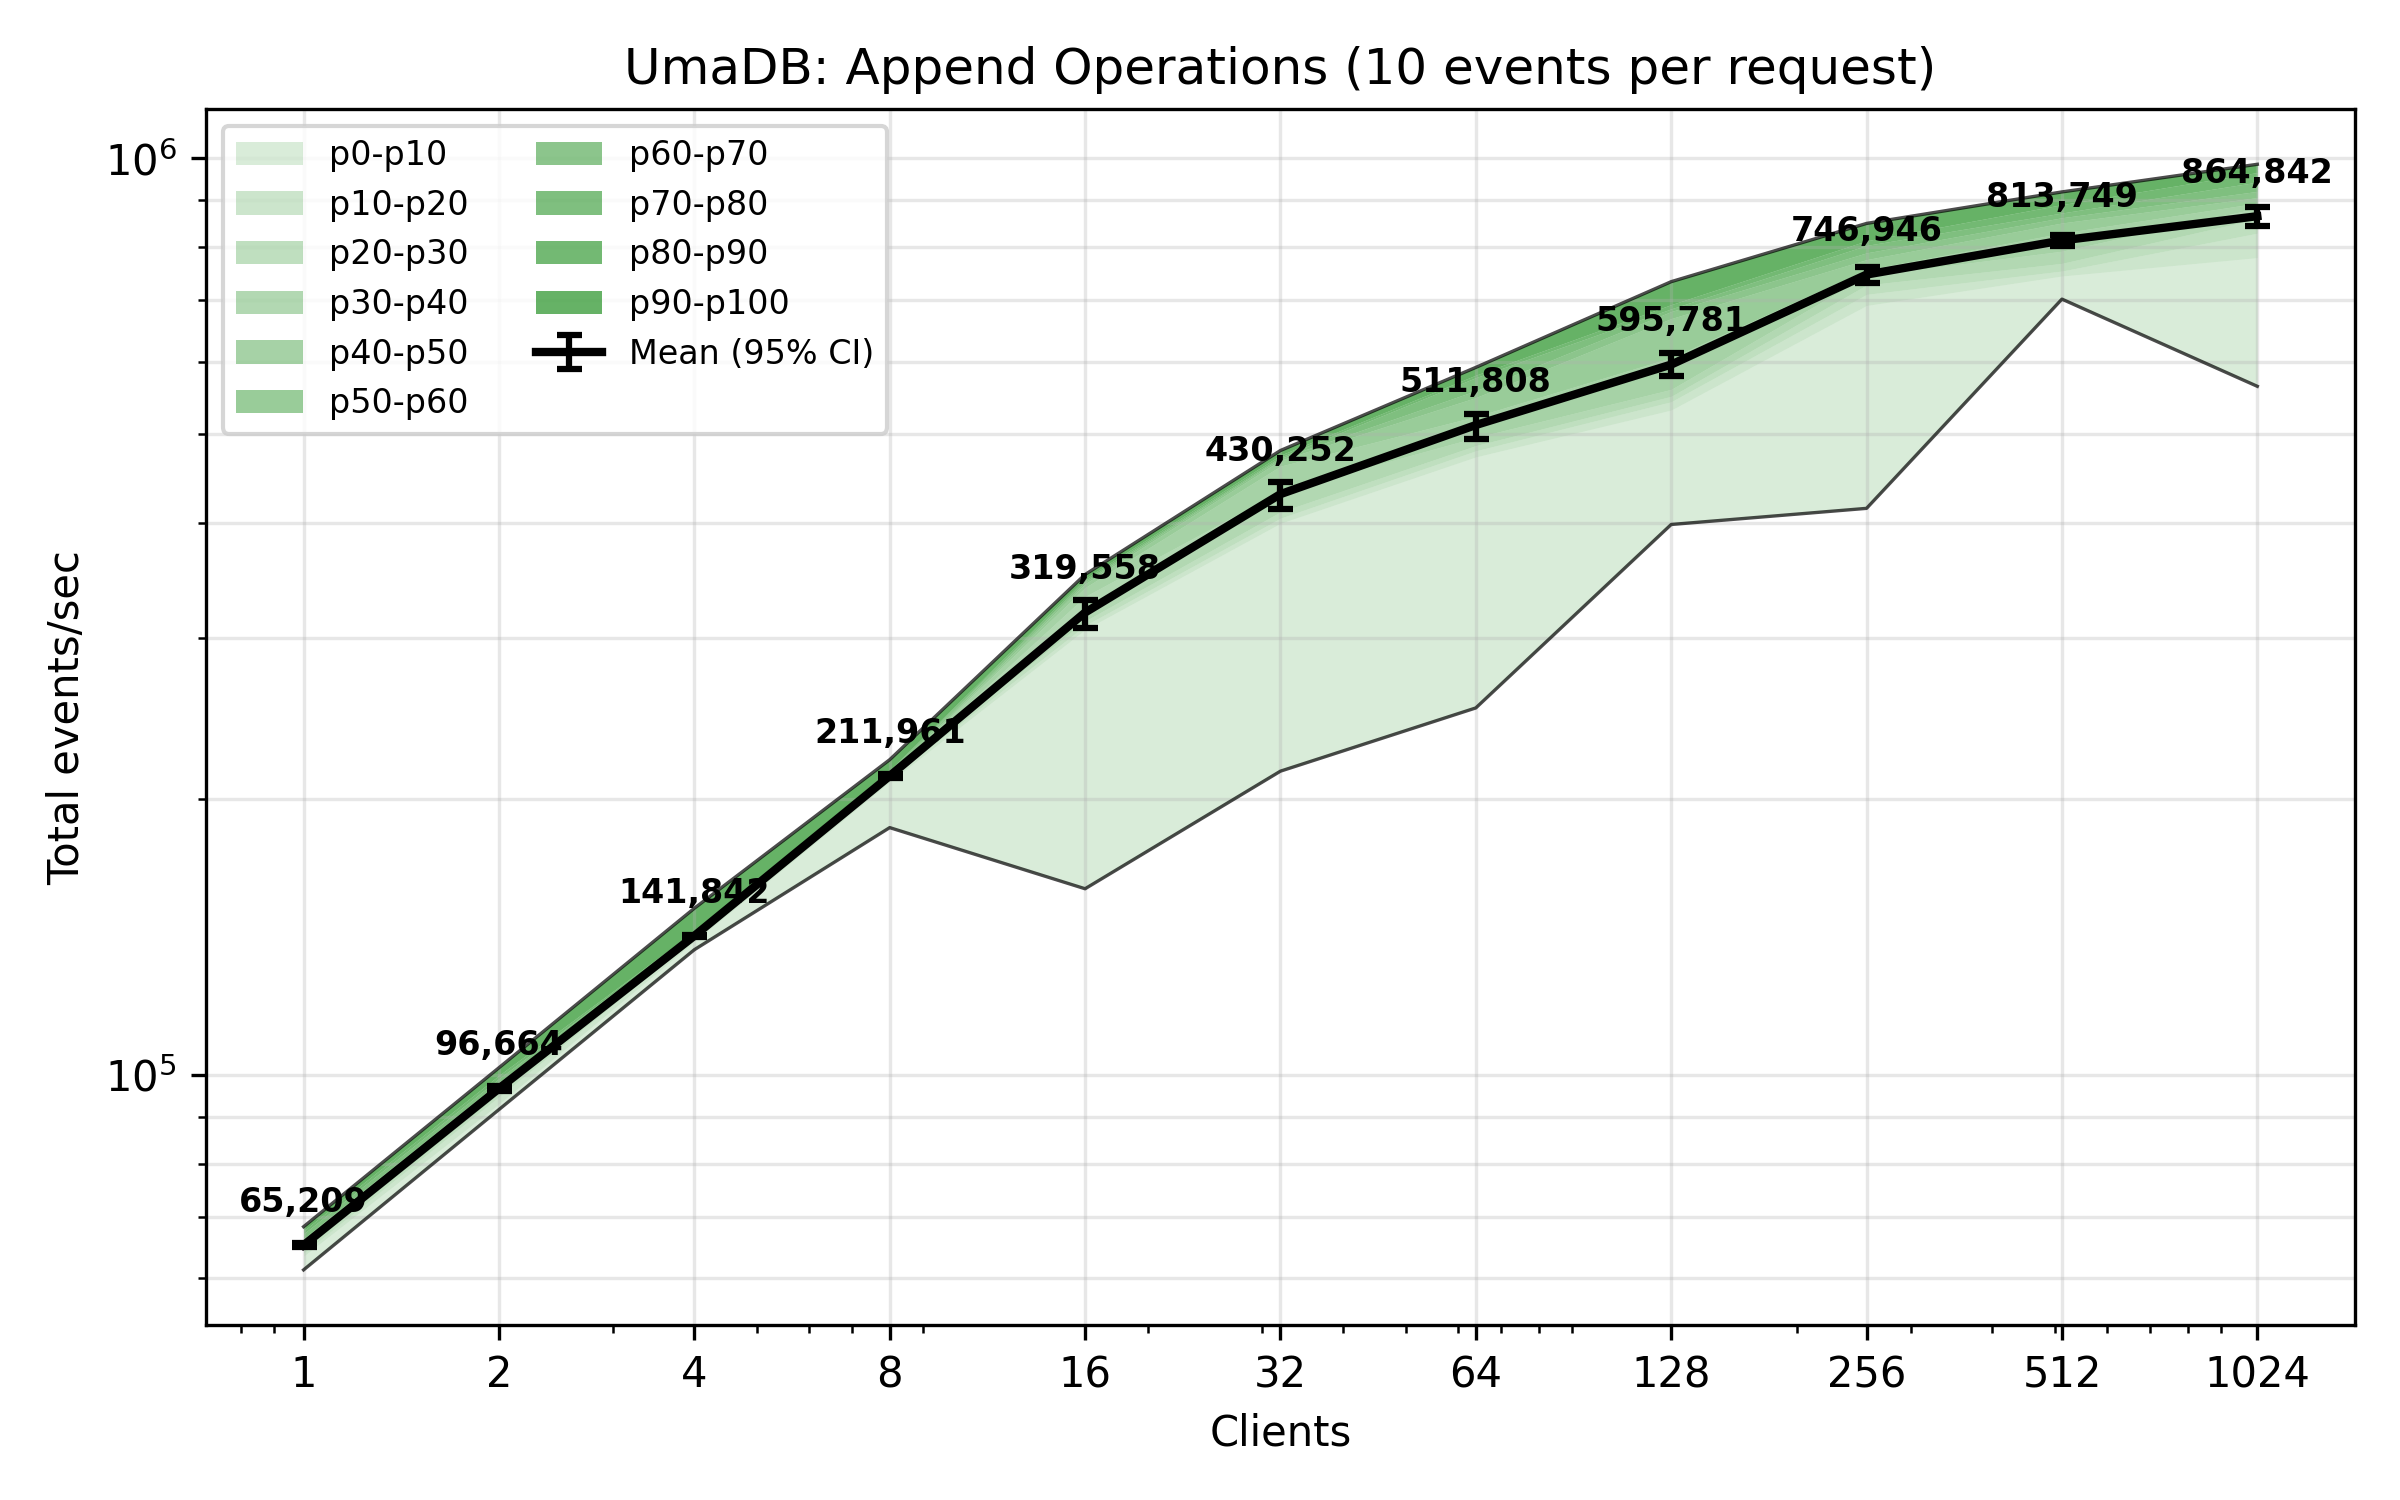
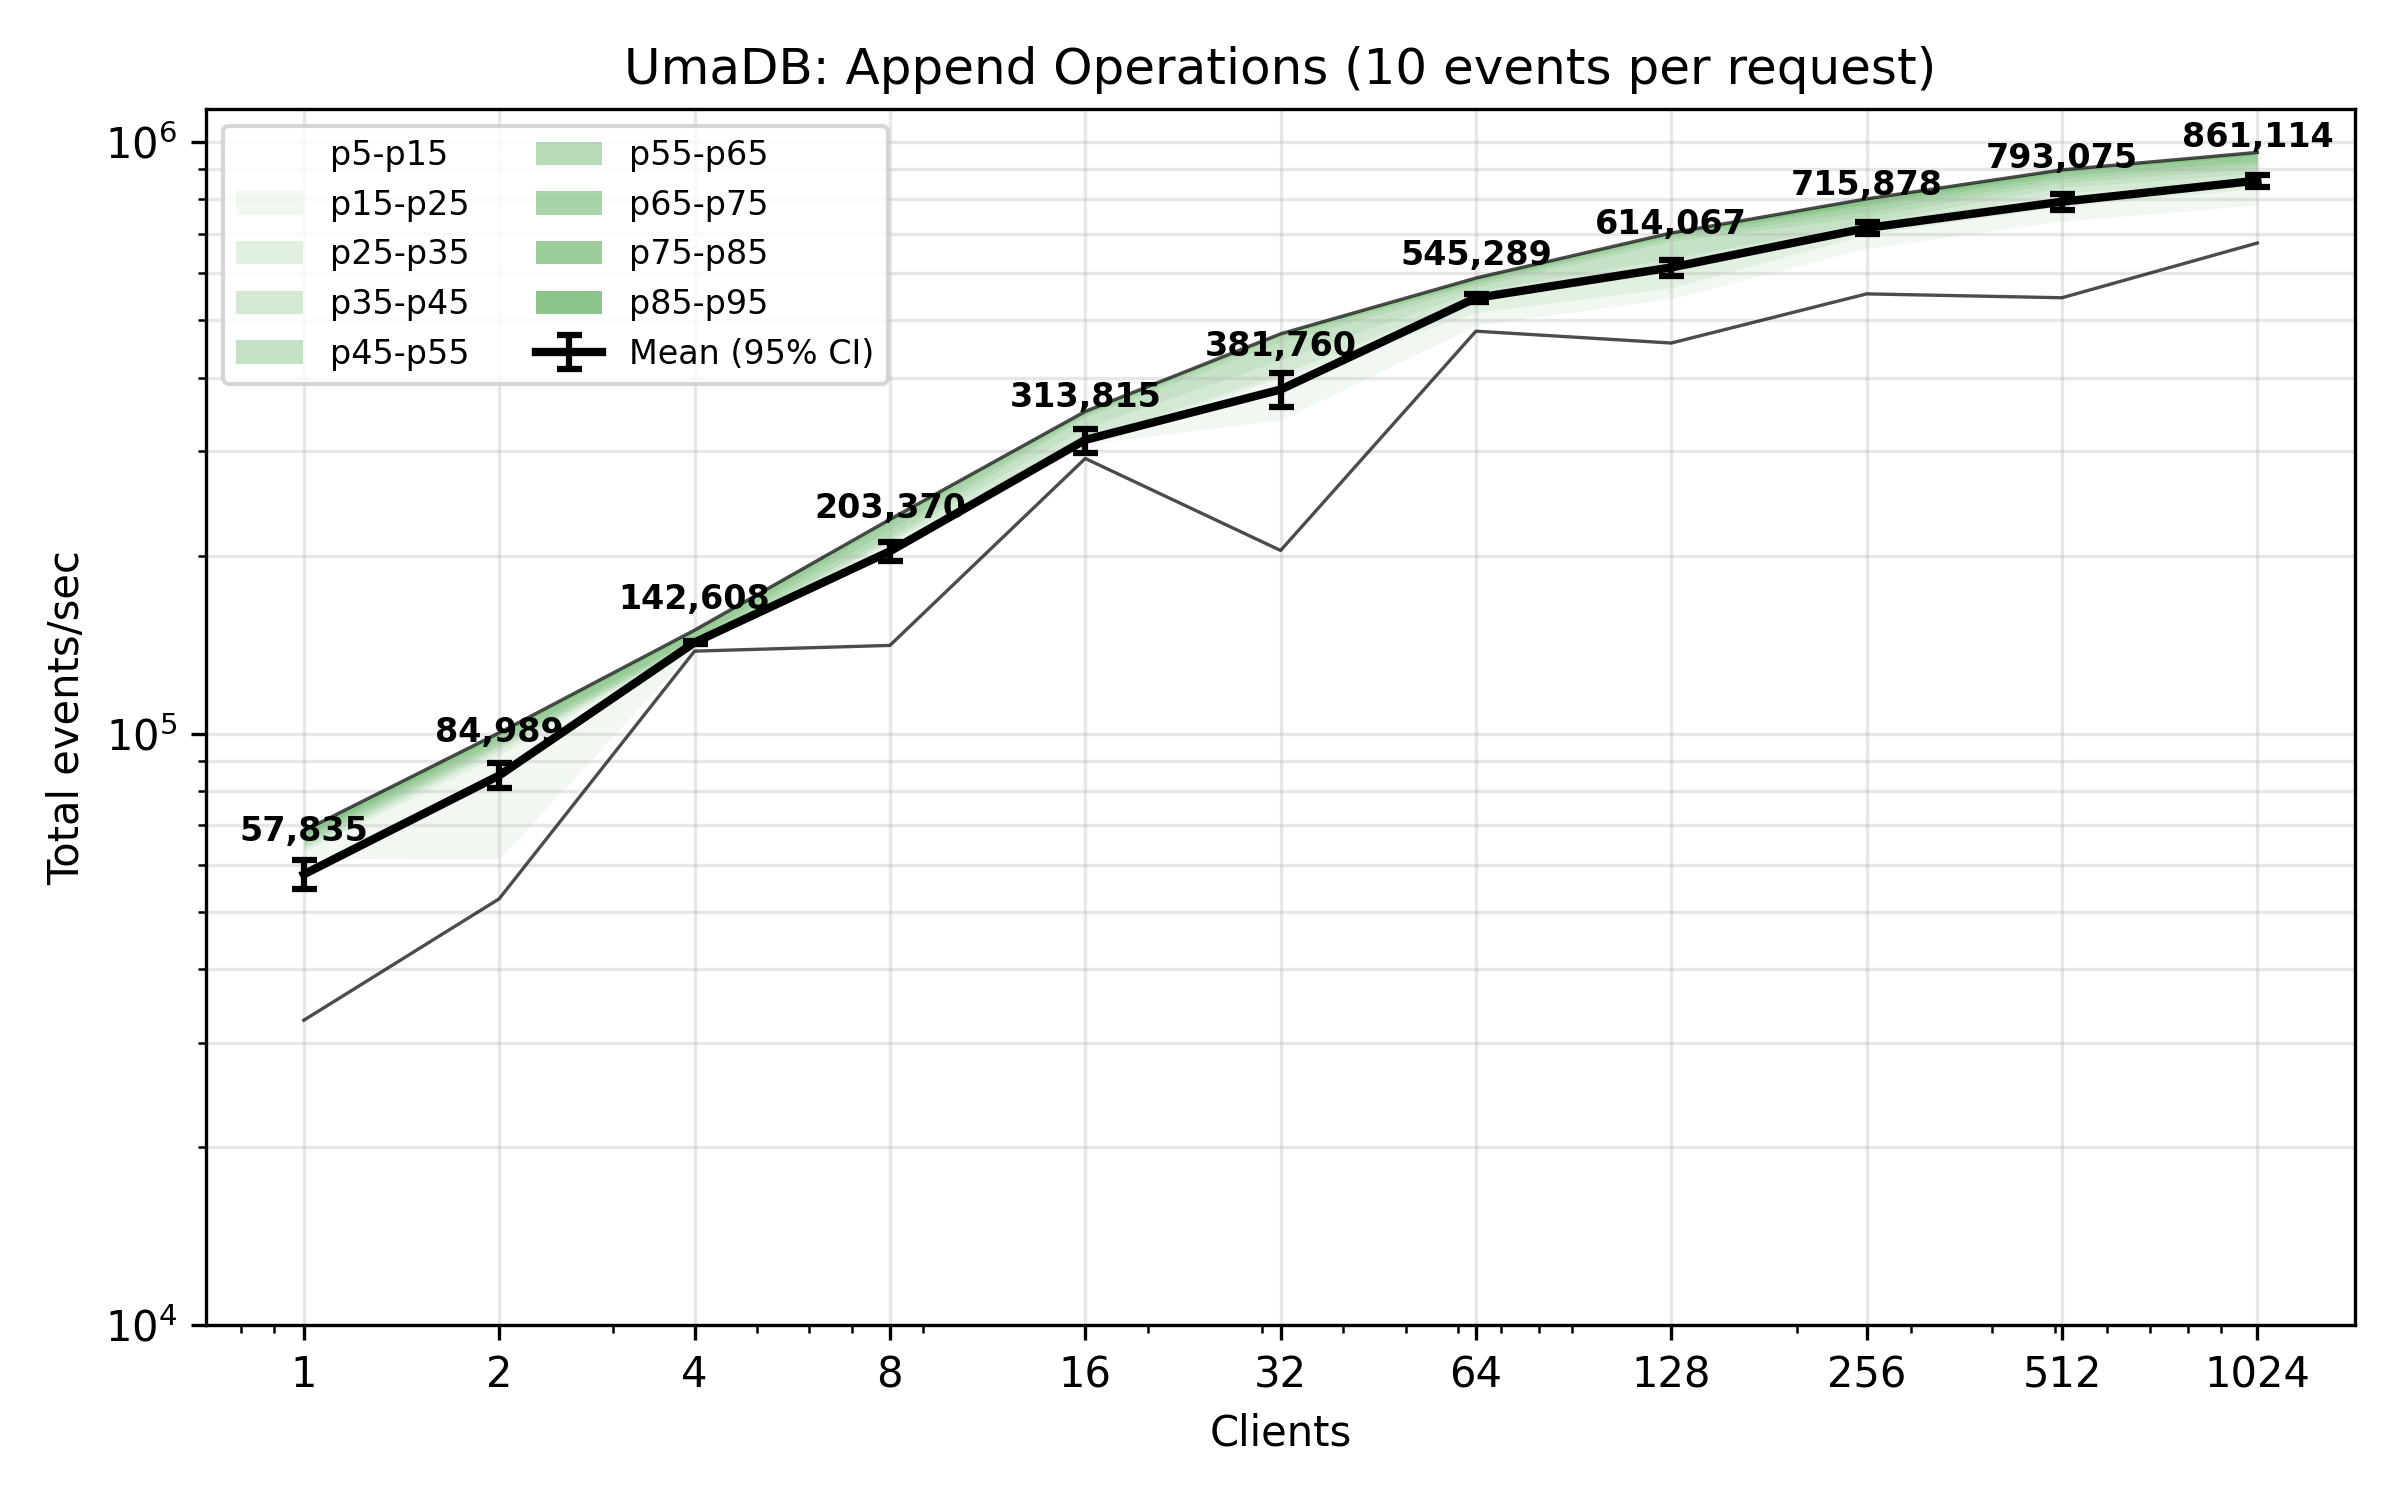
Adjusted benchmark plots and sample size.

diff --git a/crates/benches/benches/grpc_append_bench_plot.py b/crates/benches/benches/grpc_append_bench_plot.py
@@ -14,9 +14,9 @@ x = []
 mean_throughputs = []
 ci_lower_throughputs = []
 ci_upper_throughputs = []
-# Store percentile throughputs for each decile band
-# percentile_throughputs[i] contains list of throughputs for i*10 percentile
-percentile_throughputs = [[] for _ in range(11)]  # 0, 10, 20, ..., 100
+# Store percentile throughputs for bands from p5 to p95
+# percentile_throughputs[i] contains list of throughputs for (5+i*10) percentile
+percentile_throughputs = [[] for _ in range(10)]  # 5, 15, 25, ..., 85, 95
 
 for t in threads:
     sample_path = Path(f"target/criterion/grpc_append_{EVENTS_PER_REQUEST}_per_request/{t}/new/sample.json")
@@ -38,8 +38,8 @@ for t in threads:
     # Calculate per-iteration times (nanoseconds per iteration)
     per_iter_times = times / iters
     
-    # Calculate percentiles for decile bands (0, 10, 20, ..., 100)
-    percentiles = [np.percentile(per_iter_times, p) for p in range(0, 101, 10)]
+    # Calculate percentiles for bands from p5 to p95 (5, 15, 25, ..., 85, 95)
+    percentiles = [np.percentile(per_iter_times, p) for p in range(5, 96, 10)]
     
     # Get mean from estimates
     mean_ns = est_data['mean']['point_estimate']
@@ -81,39 +81,37 @@ if len(x) == 0:
 
 plt.figure(figsize=(8, 5))
 
-# Plot decile bands with progressive shading
-# Band 0: p0-p10 (lightest)
-# Band 1: p10-p20
+# Plot percentile bands from p5 to p95 with progressive shading
+# Band 0: p5-p15 (lightest)
+# Band 1: p15-p25
 # ...
-# Band 8: p80-p90
-# Band 9: p90-p100 (darkest)
-# We want top bands darker, so band 9 (90-100) should be darkest
+# Band 7: p75-p85
+# Band 8: p85-p95 (darkest)
+# We want top bands darker, so band 8 (85-95) should be darkest
 
 # Use a color map to create progressive shading from light to dark
 base_color = 'green'
-num_bands = 10
+num_bands = 9
 
 for i in range(num_bands):
-    # Calculate alpha: lightest at bottom (i=0), darkest at top (i=9)
+    # Calculate alpha: lightest at bottom (i=0), darkest at top (i=8)
     # Use range from 0.15 to 0.6 for good visibility
-    alpha = 0.15 + (i / (num_bands - 1)) * 0.45
+    alpha = 0.0 + (i / (num_bands - 1)) * 0.45
     
     lower = percentile_throughputs[i]
     upper = percentile_throughputs[i + 1]
     
-    # Create label only for first and last band to avoid cluttering legend
-    if i == 0:
-        label = f'p0-p10'
-    elif i == num_bands - 1:
-        label = f'p90-p100'
-    else:
-        label = f'p{i*10}-p{(i+1)*10}'
+    # Calculate percentile values for labels: 5, 15, 25, ..., 85, 95
+    p_lower = 5 + i * 10
+    p_upper = 5 + (i + 1) * 10
     
+    label = f'p{p_lower}-p{p_upper}'
+
     plt.fill_between(x, lower, upper, alpha=alpha, color=base_color, label=label, linewidth=0)
 
-# Add thin black lines at p0 and p100 boundaries
+# Add thin black lines at p5 and p95 boundaries
 plt.plot(x, percentile_throughputs[0], linestyle='-', linewidth=0.8, color='black', alpha=0.7, zorder=5)
-plt.plot(x, percentile_throughputs[10], linestyle='-', linewidth=0.8, color='black', alpha=0.7, zorder=5)
+plt.plot(x, percentile_throughputs[9], linestyle='-', linewidth=0.8, color='black', alpha=0.7, zorder=5)
 
 # Calculate error bar values (asymmetric errors)
 yerr_lower = [mean - lower for mean, lower in zip(mean_throughputs, ci_lower_throughputs)]
@@ -140,6 +138,12 @@ plt.grid(True, which='both', axis='y', alpha=0.3)
 plt.grid(True, which='major', axis='x', alpha=0.3)
 plt.xticks(x, [str(t) for t in x])
 plt.legend(loc='best', fontsize=8, ncol=2)
+
+# Set y-axis minimum to the lowest plotted value rounded down to the next power of 10
+min_value = min(percentile_throughputs[0])  # p5 percentile has the lowest values
+# Round down to the next power of 10: 10^floor(log10(min_value))
+y_min = 10 ** np.floor(np.log10(min_value))
+plt.ylim(bottom=y_min)
 
 plt.tight_layout()
 plt.savefig(f"UmaDB-append-bench-{EVENTS_PER_REQUEST}-per-request.png", format="png", dpi=300)

diff --git a/crates/benches/benches/grpc_append_bench.rs b/crates/benches/benches/grpc_append_bench.rs
@@ -54,7 +54,7 @@ pub fn grpc_append_benchmark(c: &mut Criterion) {
     let events_per_request = get_events_per_request();
     let group_name = format!("grpc_append_{}_per_request", events_per_request);
     let mut group = c.benchmark_group(&group_name);
-    group.sample_size(100);
+    group.sample_size(200);
     group.measurement_time(Duration::from_secs(10));
 
     for &threads in &[1usize, 2, 4, 8, 16, 32, 64, 128, 256, 512, 1024] {
